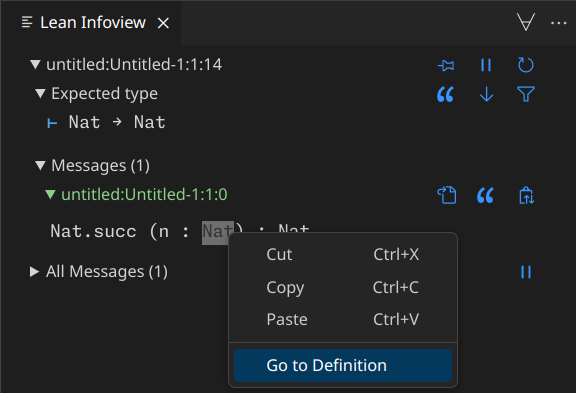
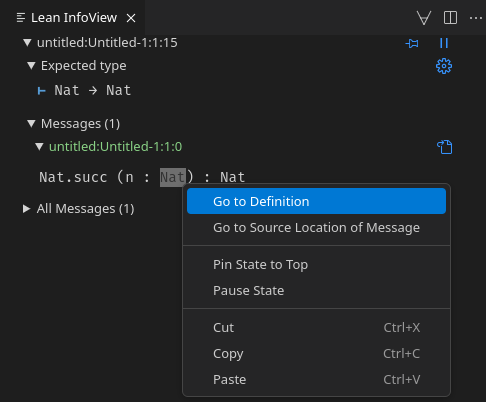
doc: update manual for changes since january (#635)

diff --git a/vscode-lean4/manual/manual.md b/vscode-lean4/manual/manual.md
@@ -18,6 +18,7 @@ This manual covers how to interact with the most recent version of Lean 4 using 
     - [Hovers](#hovers)
     - [Auto-completion](#auto-completion)
     - [Code actions](#code-actions)
+    = [Inlay hints](#inlay-hints)
     - [Occurrence highlighting](#occurrence-highlighting)
     - [Semantic highlighting](#semantic-highlighting)
     - [Go to symbol](#go-to-symbol)
@@ -171,6 +172,11 @@ In the scroll bar on the right of the editor, red / orange / blue areas denote t
 
 The amount of diagnostics for all open files are displayed in the left portion of the status bar at the bottom of VS Code using error, warning and information symbols. Clicking this section of the status bar will open the 'Problems view' of VS Code that displays all diagnostics for all currently open files and that can be used to quickly navigate to the span of the diagnostic by clicking on an entry or by using the arrow keys and `Enter`. It can also be opened using the ['View: Show Problems'](command:workbench.actions.view.problems) command or `Ctrl+Shift+M` (`Cmd+Shift+M`).
 
+In addition to VS Code's diagnostic squigglies, the Lean 4 VS Code extension provides some additional editor decorations for diagnostics:
+1. **Error and warning range decorations**. On the left side of the editor, a circled cross or a warning sign are displayed on lines that contain an error or a warning, respectively. For errors that extend across multiple lines, a vertical red line extends from the circled cross to the last line of the error, where it bends to the right. These decorations can be disabled by unsetting the 'Lean 4 > Show Diagnostic Gutter Decorations' setting.
+1. **'Unsolved goals' decorations**. On lines where an 'unsolved goals' error ends, a special work-in-progress marker is displayed. These decorations can be disabled by unsetting the 'Lean 4 > Show Unsolved Goals Decorations' setting. They can also be themed by using the 'Lean 4 > Unsolved Goals Decoration Light Theme Color' and 'Lean 4 > Unsolved Goals Decoration Dark Theme Color' settings.
+1. **'Goals accomplished' decorations**. On the left side of the editor, a double checkmark is displayed next to theorems that contain no errors and no `sorry`s anymore. The double checkmark icon can be disabled or replaced with another icon by changing the 'Lean 4 > Goals Accomplished Decoration Kind' setting.
+
 Using the ['Error Lens'](command:extension.open?%5B%22usernamehw.errorlens%22%5D) VS Code extension, the line that a diagnostic occurs in is highlighted and the message of the diagnostic is displayed inline in the editor.
 
 <br/>
@@ -253,9 +259,11 @@ The InfoView is subdivided into several sections, most of which are only display
 1. **Expected type**. If the text cursor is positioned in a Lean term, the InfoView will display the current expected type at the position of the cursor. 
 1. **Widget sections**. Widgets may add arbitrary additional sections to the InfoView that are only displayed when the respective widget is active.
 1. **Messages**. If the text cursor is positioned on a line of the span of a [diagnostic](#errors-warnings-and-information), an interactive variant of the diagnostic is displayed. Disabling the 'Lean 4 > Infoview: All Errors On Line' option will only display errors that are to the right of the text cursor.
-1. **All Messages**. Always displayed. Contains interactive variants of all [diagnostics](#errors-warnings-and-information) present in the file.
+1. **All Messages**. Always displayed. Contains interactive variants of all [diagnostics](#errors-warnings-and-information) present in the file. Can be paused by clicking the 'Pause 'All Messages'' button in the top right of the section.
 
 All sections can be collapsed by clicking on their title using the mouse, but the expected type and all messages sections can also be collapsed and uncollapsed using the ['Infoview: Toggle Expected Type'](command:lean4.infoView.toggleExpectedType) and ['Infoview: Toggle "All Messages"'](command:lean4.displayList) commands, respectively. The expected type section can also be collapsed by default using the 'Lean 4: Infoview > Show Expected Type' setting. 
+
+Clicking on the 'Go to source location' button in the top right of any message in the InfoView will jump to the location in the code where the message was created.
 
 Using the 'Lean 4 > Infoview: Debounce Time' setting, the InfoView can be made to update more or less quickly as the text cursor is moved around.
 
@@ -275,19 +283,25 @@ Inaccessible names, i.e. names that have been automatically generated and cannot
 
 When a proof goal changes as the result of a tactic operation, the corresponding part of the proof state that changes is highlighted using red or green depending on whether this part of the proof state is about to be removed or was just inserted.
 
-In the top right of the tactic state and the expected type sections, there are three small icon buttons:
-1. **Copy state to comment**. Inserts a comment at the current text cursor position containing the tactic state or expected type. Can also be called using the ['Infoview: Copy Contents to Comment'](command:lean4.infoView.copyToComment) command.
-1. **Reverse list**. Displays the proof goal / expected type on top of the assumption list instead of at the bottom of it. The default behavior of this setting can be flipped using the 'Lean 4 > Infoview: Reverse Tactic State' setting.
-1. **Filter**. Displays a menu that allows hiding types, instance assumptions, inaccessible names and the values of `let` bindings from the proof goal state or expected type.
+In the top right of the tactic state and the expected type sections, there is a cog icon that provides settings for the given kind of state:
+1. **Display target before assumptions**. Displays the proof goal / expected type above the assumption list instead of at the bottom of it. The default of this setting can be flipped using the 'Lean 4 > Infoview: Reverse Tactic State' setting.
+1. **Hide type assumptions**. Removes types from the assumption list. The default of this setting can be flipped using the 'Lean 4 > Infoview: Hide Type Assumptions' setting.
+1. **Hide instance assumptions**. Removes instances from the assumption list. The default of this setting can be flipped using the 'Lean 4 > Infoview: Hide Instance Assumptions' setting.
+1. **Hide inaccessible assumptions**. Removes assumptions with inaccessible names from the assumption list. The default of this setting can be flipped using the 'Lean 4 > Infoview: Hide Inaccessible Assumptions' setting.
+1. **Hide let-values**. Removes the values of `let` expressions from the assumption list. The default of this setting can be flipped using the 'Lean 4 > Infoview: Hide Let Values' setting.
+1. **Hide goal names**. Removes the name of each goal in the proof goal / expected type. The default of this setting can be flipped using the 'Lean 4 > Infoview: Hide Goal Names' setting.
+1. **Emphasize first goal**. Renders side goals with a smaller font size. The default of this setting can be flipped using the 'Lean 4 > Infoview: Emphasize First Goal' setting.
+1. **Save current settings to default settings**. Clicking this button if any of the settings above differ from their defaults will persist the current settings to the VS Code user settings.
 
-When the 'Lean 4 > Infoview: Emphasize First Goal' setting is enabled, side goals will be rendered with a smaller font size.
+All settings can also be accessed using the InfoView context menu.
 
 #### Status bar
 
-In the very top right of the InfoView, there are three icon buttons:
-1. **Pin**. Takes the tactic state, expected type, messages and widget sections at the current cursor location and pins them to the top of the InfoView so that they are visible when inspecting the InfoView in other parts of the code. In pinned InfoView states, an additional **Reveal file location** icon button can be used to navigate to the place in the code where the InfoView state was pinned and the 'Pin' button is replaced with an 'Unpin' button. Can also be called using the ['Infoview: Toggle Pin'](command:lean4.infoView.toggleStickyPosition) command.
-1. **Pause updating**. Freezes the tactic state, expected type, messages and widget sections. When frozen, the 'Pause updating' button is replaced with a 'Continue updating' button. Can also be called using the ['Infoview: Toggle Updating'](command:lean4.infoView.toggleUpdating) command.
-1. **Update**. Re-fetches all InfoView data. It should typically not be necessary to use this button.
+In the very top right of the InfoView, there are two icon buttons:
+1. **Pin**. Takes the tactic state, expected type, messages and widget sections at the current cursor location and pins them to the top of the InfoView so that they are visible when inspecting the InfoView in other parts of the code. In pinned InfoView states, an additional **Go to pinned location in file** icon button can be used to navigate to the place in the code where the InfoView state was pinned and the 'Pin' button is replaced with an 'Unpin' button. Can also be called using the ['Infoview: Toggle Pin'](command:lean4.infoView.toggleStickyPosition) command.
+1. **Pause state**. Freezes the tactic state, expected type, messages and widget sections. Can also be called using the ['Infoview: Toggle Updating'](command:lean4.infoView.toggleUpdating) command. When frozen, the 'Pause state' button is replaced with a 'Unpause state' button and a 'Refresh paused state' button is also displayed. 
+
+All InfoView actions can also be accessed using the InfoView context menu.
 
 #### InfoView hovers
 
@@ -315,7 +329,7 @@ Right-clicking on any non-local identifier in the InfoView and selecting 'Go to 
 
 #### Widgets
 
-[User widgets](https://lean-lang.org/lean4/doc/examples/widgets.lean.html) allow for extending the InfoView with arbitrary interactive components. Widgets are typically registered to activate in certain contexts, for example when a tactic is called, and may provide additional functionality when holding `Shift` and clicking a subexpression in the InfoView to select it as an input to the widget.
+[User widgets](https://lean-lang.org/lean4/doc/examples/widgets.lean.html) allow for extending the InfoView with arbitrary interactive components. Widgets are typically registered to activate in certain contexts, for example when a tactic is called, and may provide additional functionality when holding `Shift` and clicking a subexpression in the InfoView to select it as an input to the widget, or by right-clicking on the subexpression and clicking the 'Select' entry.
 
 For an example of a built-in widget, calling the `simp?` tactic in a proof will display a 'Suggestions' section in the InfoView with a link that executes a [code action](#code-actions). The code action replaces the `simp?` tactic call with a `simp only` tactic invocation that lists all the theorems needed to simplify the expression.
 
@@ -385,6 +399,8 @@ Code actions are a mechanism for Lean to suggest changes to the code. When a cod
 
 For example, the built-in `#guard_msgs` command can be used to test that a declaration produces a specific [diagnostic](#errors-warnings-and-information), e.g. `/-- info: 2 -/ #guard_msgs (info) in #eval 1` produces ```❌ Docstring on `#guard_msgs` does not match generated message: info: 1```. When positioning the text cursor in the `#guard_msgs` line, a light bulb will pop up with an entry to replace the documentation above `#guard_msgs` with the actual output.
 
+Similarly, when Lean displays an 'unknown identifier' error, a code action is provided to add an import that makes the given identifier available.
+
 The [Batteries](https://github.com/leanprover-community/batteries) library also provides some additional useful code actions, for example:
 - Typing `instance : <class> := _` will offer to generate a skeleton to implement an instance for `<class>`.
 - Typing `def f : <type1> → <type2> := _` will offer to generate a match on the value of `<type1>`.
@@ -395,6 +411,24 @@ The [Batteries](https://github.com/leanprover-community/batteries) library also 
 | ![](images/code-action.png) | 
 | :--: | 
 | *Code action for `#guard_msgs` command* |
+
+### Signature help
+
+When typing a function application, VS Code will automatically display a popup that designates the current remaining function type. This removes the need to remember the function signature while typing the function application, or having to constantly cycle between hovering over the function identifier and typing the application. 
+
+The signature help can be triggered by pressing `Ctrl+Shift+Space` (`Cmd+Shift+Space`) or by using the ['Trigger Parameter Hints'](command:editor.action.triggerParameterHints) command.
+
+### Inlay hints
+
+Inlay hints are a mechanism for Lean to display greyed-out code snippets directly in the code to make some implicit information explicit. Currently, Lean will display inlay hints for implicit parameters that have been automatically inserted as a result to make it more clear that these implicit parameters have been added.
+
+Hovering over an inlay hint for automatically-inserted implicit parameters will display the types of the parameters and double-clicking the inlay hint will insert the greyed out snippet into the code.
+
+<br/>
+
+| ![](images/auto-implicit-inlay-hint.png) | 
+| :--: | 
+| *Inlay hint for automatically-inserted implicit parameter `α`* |
 
 ### Occurrence highlighting
 
@@ -490,9 +524,9 @@ This section covers several essential tools to efficiently navigate Lean project
 
 ### Go to definition, declaration and type definition
 
-To jump to the place in the code where an identifier was defined, the ['Go to Definition'](command:editor.action.revealDefinition) command can be used by positioning the text cursor on the identifier and pressing `F12`, by right clicking on the identifier and selecting 'Go to Definition' or by holding `Shift` and clicking on the identifier. 
+To jump to the place in the code where an identifier was defined, the ['Go to Definition'](command:editor.action.revealDefinition) command can be used by positioning the text cursor on the identifier and pressing `F12`, by right clicking on the identifier and selecting 'Go to Definition' or by holding `Shift` and clicking on the identifier. When used on a type class projection or on a macro that produces a type class projection, 'Go to Definition' will provide several alternatives for both the type class itself, as well as its involved instances. 
 
-The ['Go to Declaration'](command:editor.action.revealDeclaration) command that can be used via the context menu is currently mostly identical to 'Go to Definition', with the only significant difference being that when 'Go to Definition' jumps to the elaborator of an identifier, 'Go to Declaration' will instead jump to the parser.
+The ['Go to Declaration'](command:editor.action.revealDeclaration) command that can be used via the context menu yields all alternatives provided by 'Go to Definition' in addition to the parser and elaborator of the given symbol.
 
 The ['Go to Type Definition'](command:editor.action.goToTypeDefinition) command that can be used via the context menu jumps to the type of the identifier at the cursor position.
 
@@ -568,6 +602,20 @@ By clicking on the third icon button in the top right of the search view that co
 | ![](images/project-search.png) | 
 | :--: | 
 | *Search view with enabled hierarchical tree display option* |
+
+### Module hierarchy
+
+In a Lean file, pressing `Alt+Shift+M` to execute the ['Module Hierarchy: Show Imports'](command:lean4.leanModuleHierarchy.showModuleHierarchy) command will display a tree with the Lean module for the current file at its root and its imports as children of the root. The full import tree can be navigated using this view. Pressing `Alt+Shift+N` to execute the ['Module Hierarchy: Show Inverse Module Hierarchy'](command:lean4.leanModuleHierarchy.showInverseModuleHierarchy) will instead display a tree with the Lean module for the current file at its root and all files where it is imported as children of the root. The full inverted import tree can be navigated using this view.
+
+For Lean modules that contain the `module` keyword, the module hierarchy will also display the various import modifiers that can be used together with the `module` keyword.
+
+Clicking the 'Show Imports' or 'Show Imported By' buttons in the top right of the module hierarchy view will switch between the regular and the inverse module hierarchy. The state of the displayed hierarchy can be refreshed using the 'Refresh' icon and the entire tree can be collapsed using the 'Collapse All' icon.
+
+<br/>
+
+| ![](images/module-hierarchy.png) | 
+| :--: | 
+| *Module hierarchy showing the imports of a module `Main`* |
 
 ### Go to file
 
